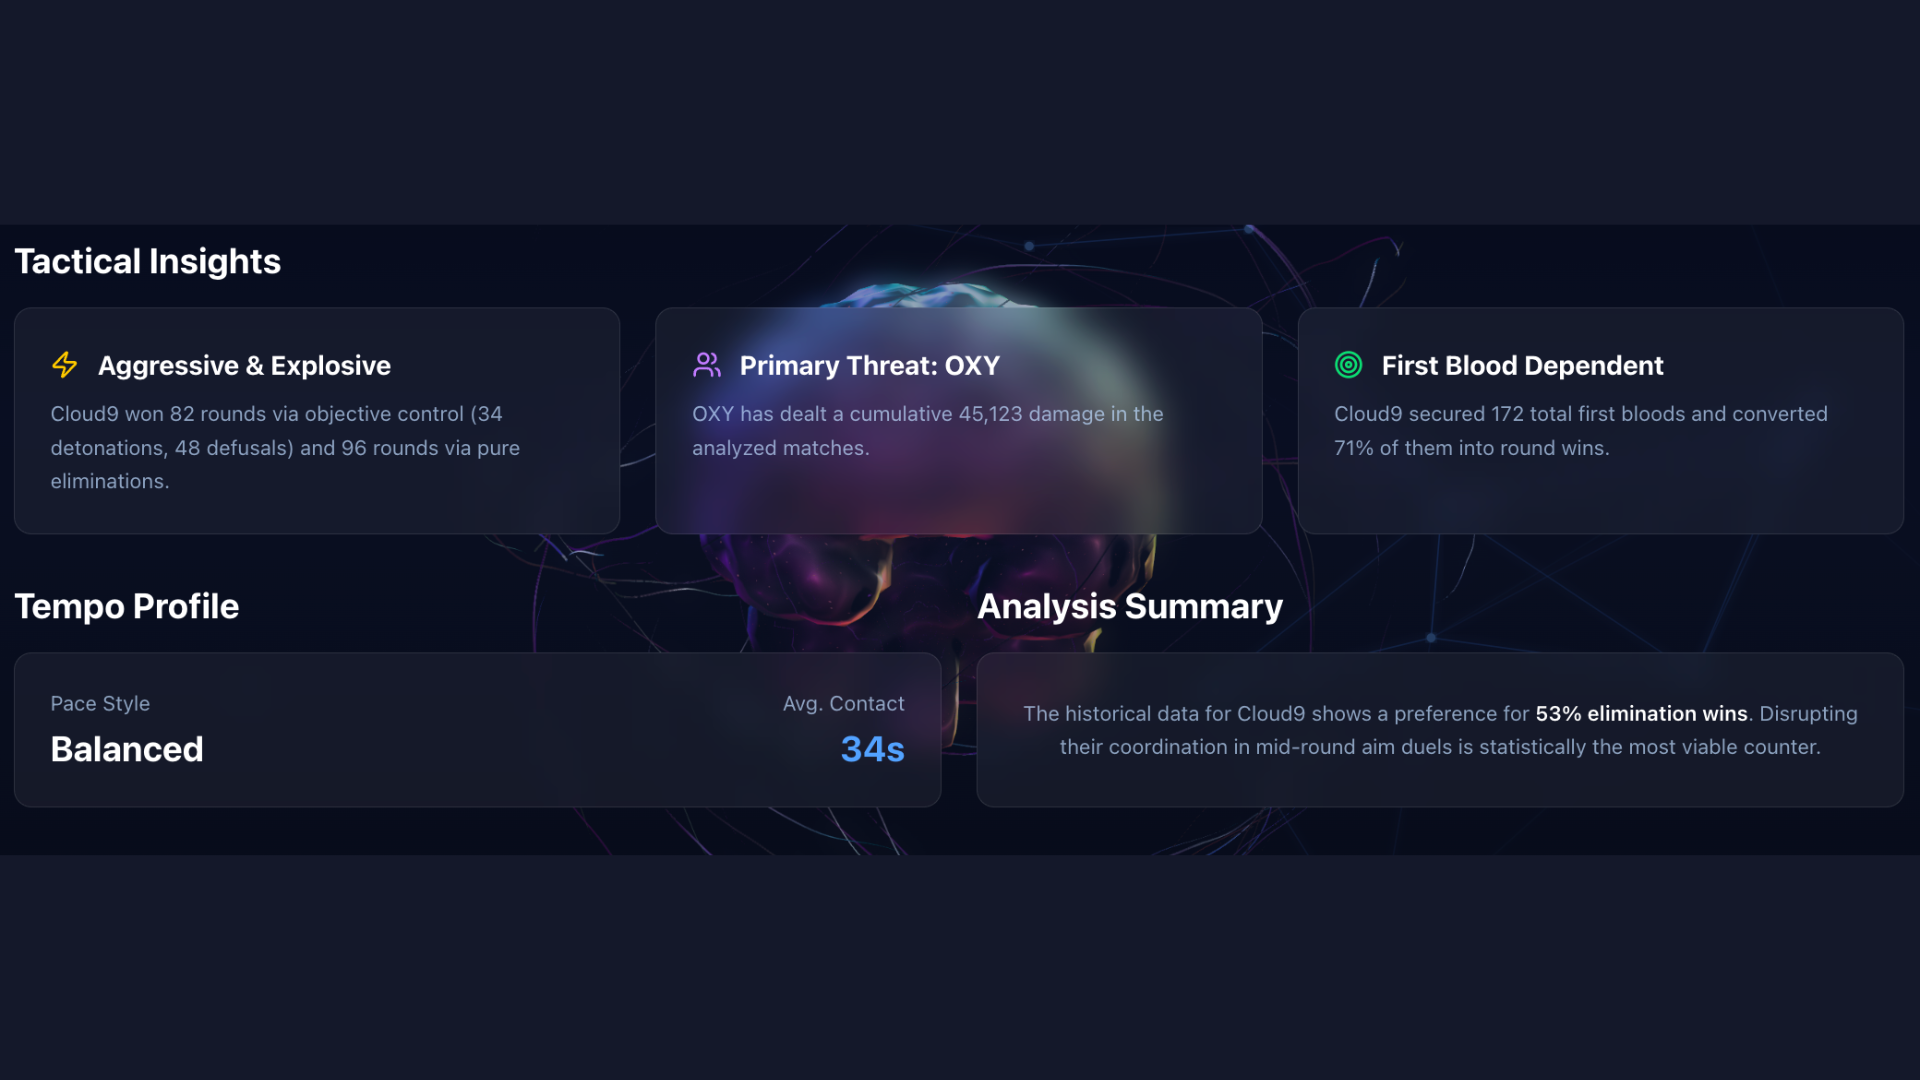
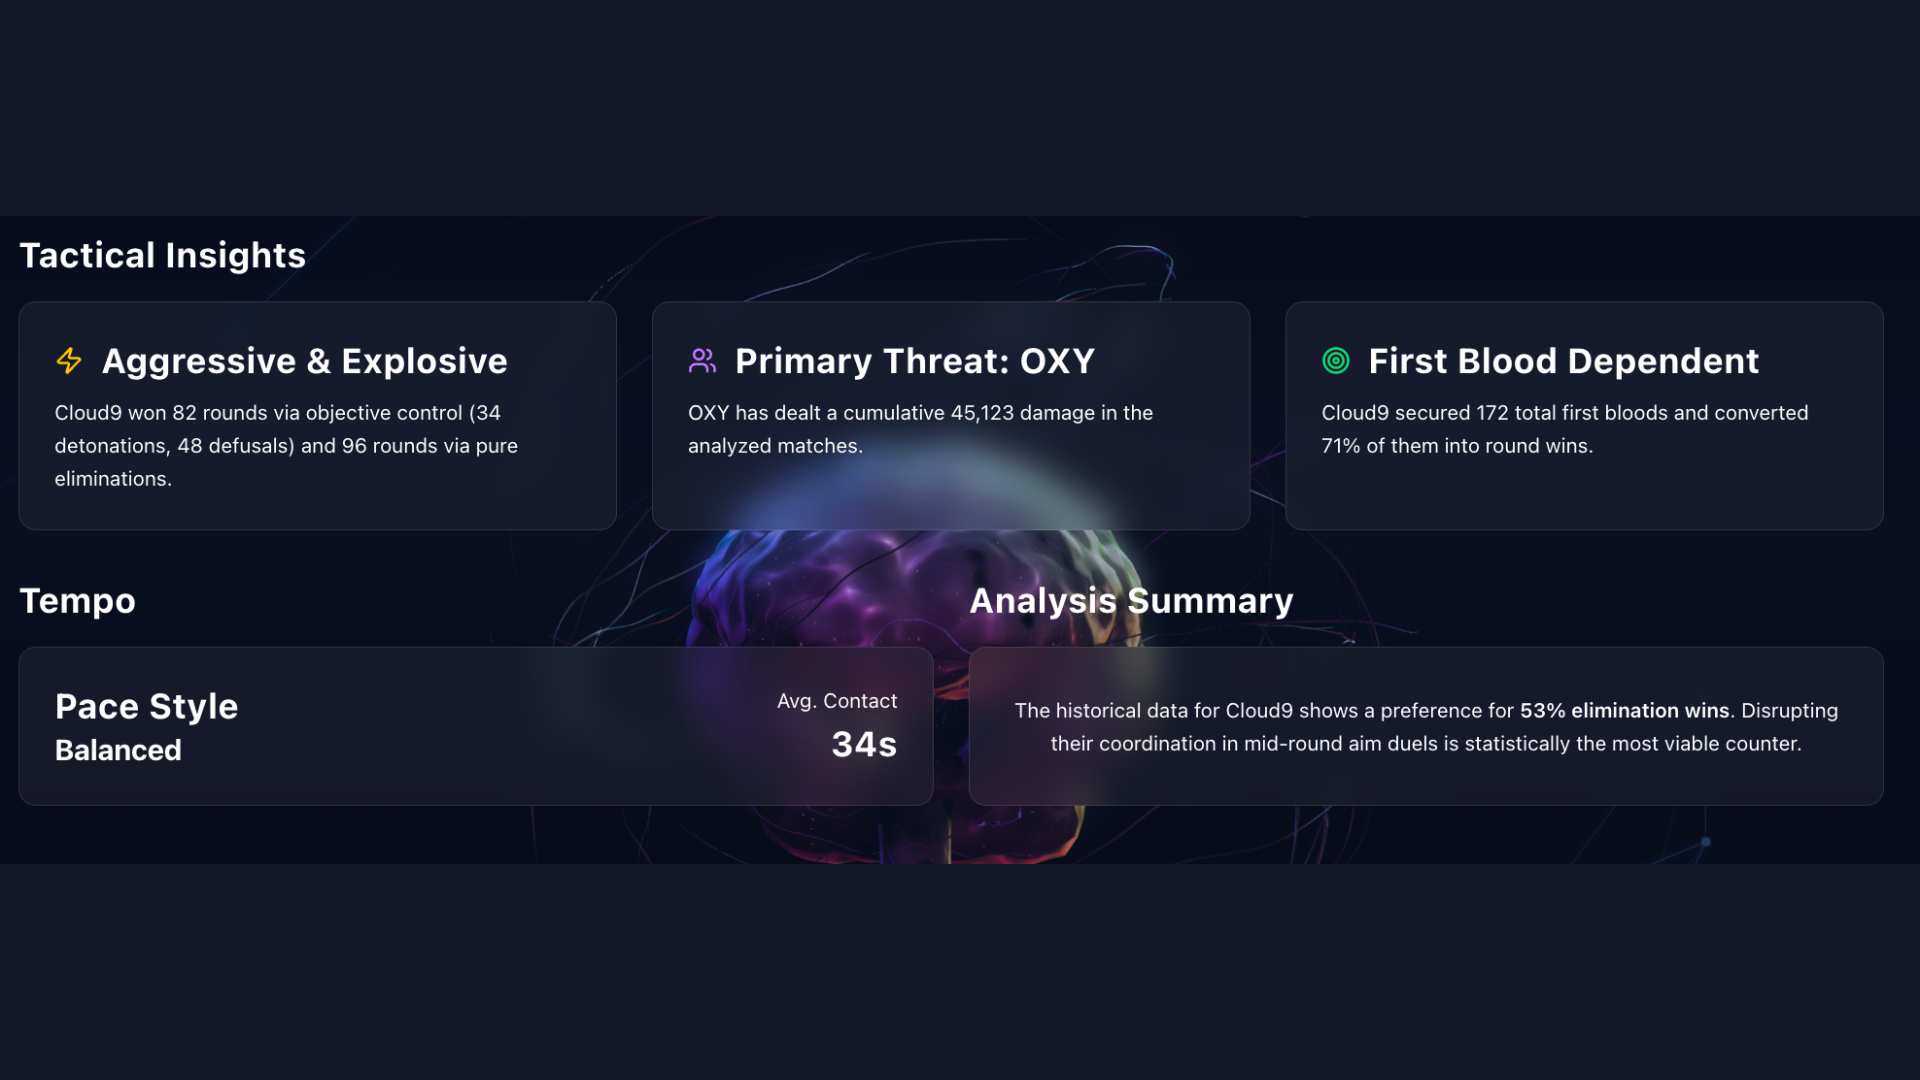
added picture of tactical report

diff --git a/client/src/components/report/ScoutingReport.tsx b/client/src/components/report/ScoutingReport.tsx
@@ -290,9 +290,9 @@ const ScoutingReport: React.FC<ScoutingReportProps> = ({
                                 <GlassBox key={index} className="hover:border-blue-400/50 transition-colors">
                                     <div className="flex items-center gap-3 mb-2">
                                         <Icon className={`w-5 h-5 ${color}`} />
-                                        <p className="text-white text-lg font-bold">{insight.title}</p>
+                                        <p className="text-2xl font-bold text-white">{insight.title}</p>
                                     </div>
-                                    <p className="text-sm text-blue-200/70 leading-relaxed">{insight.description}</p>
+                                    <p className="text-sm text-white leading-relaxed">{insight.description}</p>
                                 </GlassBox>
                             );
                         })}
@@ -302,16 +302,16 @@ const ScoutingReport: React.FC<ScoutingReportProps> = ({
                 {/* Tempo & Execution Summary */}
                 <div className="grid grid-cols-1 lg:grid-cols-2 gap-6 items-start">
                     <div className="flex flex-col h-full">
-                        <h2 className="text-2xl font-bold text-white mb-4">Tempo Profile</h2>
+                        <h2 className="text-2xl font-bold text-white mb-4">Tempo</h2>
                         <GlassBox className="flex-1">
                             <div className="flex items-center justify-between">
                                 <div>
-                                    <p className="text-blue-200/70 text-sm mb-1">Pace Style</p>
-                                    <p className="text-2xl font-bold text-white">{scoutData.tempo.tempoStyle}</p>
+                                    <p className="text-2xl font-bold text-white">Pace Style</p>
+                                    <p className="text-xl font-bold text-white">{scoutData.tempo.tempoStyle}</p>
                                 </div>
                                 <div className="text-right">
-                                    <p className="text-blue-200/70 text-sm mb-1">Avg. Contact</p>
-                                    <p className="text-2xl font-bold text-blue-400">{scoutData.tempo.avgTimeToFirstContact}s</p>
+                                    <p className="text-white text-sm mb-1">Avg. Contact</p>
+                                    <p className="text-2xl font-bold text-white">{scoutData.tempo.avgTimeToFirstContact}s</p>
                                 </div>
                             </div>
                         </GlassBox>
@@ -320,8 +320,8 @@ const ScoutingReport: React.FC<ScoutingReportProps> = ({
                     <div className="flex flex-col h-full">
                         <h2 className="text-2xl font-bold text-white mb-4">Analysis Summary</h2>
                         <GlassBox className="flex-1 flex flex-col justify-center">
-                            <p className="text-blue-200/70 text-sm text-center leading-relaxed">
-                                The historical data for {teamName} shows a preference for <span className="text-white font-semibold">{scoutData.winConditions.overall.eliminationPct}% elimination wins</span>.
+                            <p className="text-white text-sm text-center leading-relaxed">
+                                The historical data for {teamName} shows a preference for <span className="font-semibold">{scoutData.winConditions.overall.eliminationPct}% elimination wins</span>.
                                 Disrupting their coordination in mid-round aim duels is statistically the most viable counter.
                             </p>
                         </GlassBox>
